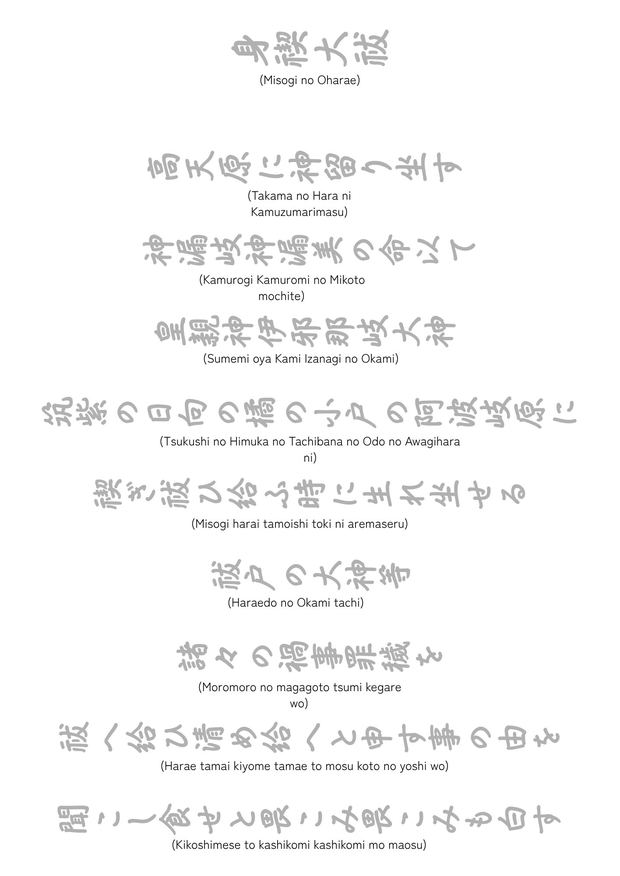
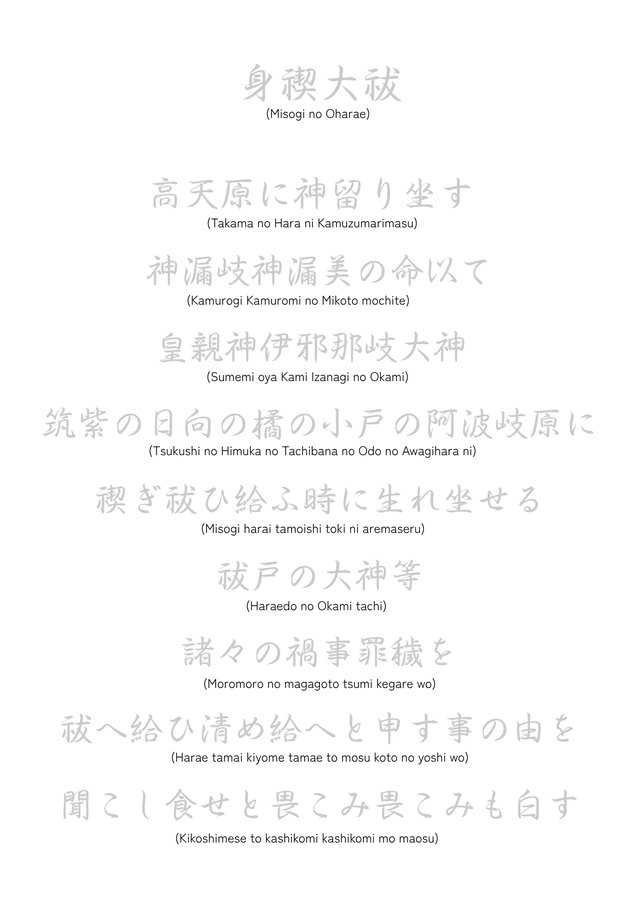
Add files via upload

Changed region(s): [[0.0613, 0.0308, 0.9194, 0.9863]]

diff --git a/index_en.html b/index_en.html
@@ -411,8 +411,8 @@ const SERIES = [
         v100:{price:"$19.99", jp:"", com:"https://www.amazon.com/dp/B0HDN7ZXSW", lulu:""} },
       { ja:"Angel Sigil: Poyel", en:"Fortune \u00b7 Renown \u00b7 Flowering of Talent", tag:"Pen", imgs:["en_45_angel_sigil_poyel_0.jpg","en_45_angel_sigil_poyel_1.jpg","en_45_angel_sigil_poyel_2.jpg"],
         blurb:"The sigil of the angel Poyel, one of the 72 of the Shem HaMephorash, said to govern fortune, renown, and the flowering of talent.",
-        v30:{price:"$14.99", jp:"", com:"https://www.amazon.com/dp/B0H7PBR8YQ", lulu:""},
-        v100:{price:"$19.99", jp:"", com:"https://www.amazon.com/dp/B0H7PBR8YQ", lulu:""} },
+        v30:{price:"$14.99", jp:"", com:"https://www.amazon.com/dp/B0H7P3QKTM", lulu:"https://www.lulu.com/shop/niko/angel-sigil-tracing-sheet-poyel-30/paperback/product-84m9q68.html"},
+        v100:{price:"$19.99", jp:"", com:"https://www.amazon.com/dp/B0H7PBR8YQ", lulu:"https://www.lulu.com/shop/niko/angel-sigil-tracing-sheet-poyel-100/paperback/product-zmn9vr7.html"} },
     ]
   },
   {
@@ -509,7 +509,7 @@ const SERIES = [
         blurb:"The Futomani divination ring drawn in the ancient sacred script Woshite; trace it with a pen as a daily practice of good fortune.",
         v30:{price:"$14.99", jp:"", com:"https://www.amazon.com/dp/B0HFFT4Y44", lulu:""},
         v100:{price:"$19.99", jp:"", com:"https://www.amazon.com/dp/B0HFG4NYP7", lulu:""} },
-      { ja:"Tohokami Emitame Futomani", en:"Sacred Chant · Futomani Chart", tag:"Brush pen", imgs:["en_44_tohokami_emitame_futomani_0.jpg","","en_44_tohokami_emitame_futomani_2.jpg"],
+      { ja:"Tohokami Emitame Futomani", en:"Sacred Chant · Futomani Chart", tag:"Brush pen", imgs:["en_44_tohokami_emitame_futomani_0.jpg","en_44_tohokami_emitame_futomani_1.jpg","en_44_tohokami_emitame_futomani_2.jpg"],
         blurb:"The Futomani ring paired with Tohokami Emitame, a sacred Shinto chant; trace it with a brush pen to invite harmony and better fortune. Experiences vary; results are not guaranteed.",
         v30:{price:"$14.99", jp:"", com:"", lulu:""},
         v100:{price:"$19.99", jp:"", com:"https://www.amazon.com/dp/B0HFG15SKG", lulu:""} },
@@ -708,9 +708,26 @@ document.addEventListener('click', function(e){
   };
   window.addEventListener('scroll', toggle, {passive:true});
   toggle();
+
+  function easeInOutQuad(t){ return t<0.5 ? 2*t*t : 1-Math.pow(-2*t+2,2)/2; }
+
+  function scrollToTopSlow(duration){
+    var startY = window.scrollY || window.pageYOffset;
+    if(startY <= 0) return;
+    var startTime = null;
+    function step(ts){
+      if(startTime === null) startTime = ts;
+      var progress = Math.min((ts - startTime) / duration, 1);
+      window.scrollTo({top: startY * (1 - easeInOutQuad(progress)), left: 0, behavior: 'auto'});
+      if(progress < 1){ requestAnimationFrame(step); }
+    }
+    requestAnimationFrame(step);
+  }
+
   btn.addEventListener('click', function(){
     var reduce = window.matchMedia('(prefers-reduced-motion: reduce)').matches;
-    window.scrollTo({top:0, left:0, behavior: reduce ? 'auto' : 'smooth'});
+    if(reduce){ window.scrollTo(0, 0); return; }
+    scrollToTopSlow(1400);
   });
 })();
 </script>

diff --git a/index.html b/index.html
@@ -703,9 +703,26 @@ document.addEventListener('click', function(e){
   };
   window.addEventListener('scroll', toggle, {passive:true});
   toggle();
+
+  function easeInOutQuad(t){ return t<0.5 ? 2*t*t : 1-Math.pow(-2*t+2,2)/2; }
+
+  function scrollToTopSlow(duration){
+    var startY = window.scrollY || window.pageYOffset;
+    if(startY <= 0) return;
+    var startTime = null;
+    function step(ts){
+      if(startTime === null) startTime = ts;
+      var progress = Math.min((ts - startTime) / duration, 1);
+      window.scrollTo({top: startY * (1 - easeInOutQuad(progress)), left: 0, behavior: 'auto'});
+      if(progress < 1){ requestAnimationFrame(step); }
+    }
+    requestAnimationFrame(step);
+  }
+
   btn.addEventListener('click', function(){
     var reduce = window.matchMedia('(prefers-reduced-motion: reduce)').matches;
-    window.scrollTo({top:0, left:0, behavior: reduce ? 'auto' : 'smooth'});
+    if(reduce){ window.scrollTo(0, 0); return; }
+    scrollToTopSlow(1400);
   });
 })();
 </script>
